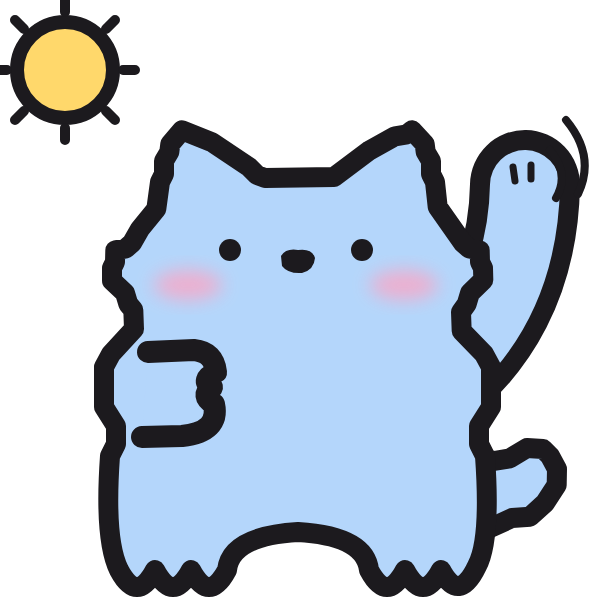
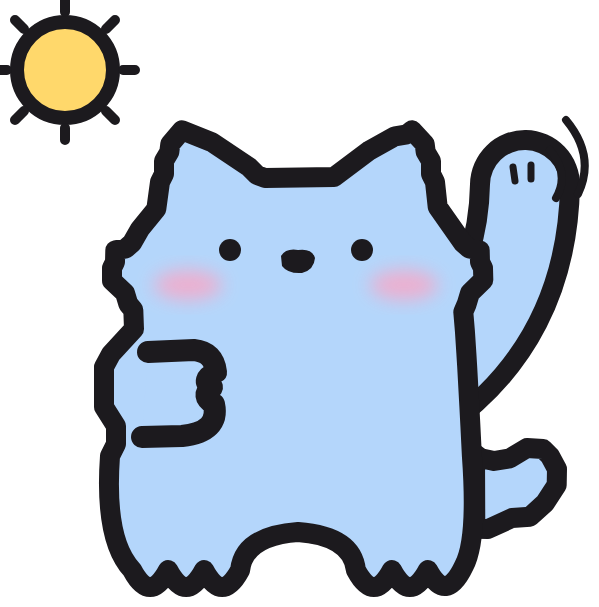
Felemelt karnál sima a test oldala
Az integetős, puszis és partis cicánál a felemelt kar oldalán nincs mancs-dudor
a test oldalán, csak ott, ahol a mancs befelé hajlik.

Claude-Session: https://claude.ai/code/session_0147rMSUhfh921N6BdCdXTQF

Changed region(s): [[0.5409, 0.5041, 0.8414, 1.0], [0.1503, 0.8303, 0.4808, 1.0]]

diff --git a/sw.js b/sw.js
@@ -1,6 +1,6 @@
 // Offline mód: a Kék Cica internet nélkül is működik.
 // Ha új verziót töltesz fel, emeld meg a VERZIO számot.
-const VERZIO = "kekcica-v8";
+const VERZIO = "kekcica-v9";
 const FAJLOK = [
     "./", "index.html", "style.css", "app.js", "beallitasok.js", "manifest.json",
     "apple-touch-icon.png", "ikon-192.png", "ikon-512.png",

diff --git a/forras/uj_cicak_rajzolo.py b/forras/uj_cicak_rajzolo.py
@@ -21,7 +21,21 @@ def vonal(d, fill="none", w=V):
 
 ALJ = 410  # ettől lefelé kézzel rajzolt lábak jönnek
 
-def test_ut(sy=1, dy=0):
+def sima_oldal(lanc, oldalak):
+    """Ahol a kar felfelé áll, ott a test oldalán nincs mancs-dudor: az oldalt kisimítjuk."""
+    Y0, X0, X1 = 220, 63, 52  # a dudor kezdete és az oldal x-e fent / lent (bal oldalon)
+    ki = []
+    for x, y in lanc:
+        for o in oldalak:
+            bal = o == "bal"
+            if (x < 228) == bal and Y0 <= y <= ALJ:
+                t = (y - Y0) / (ALJ - Y0)
+                xb = X0 + (X1 - X0) * (t ** 0.8)
+                x = round(xb if bal else 456 - xb, 1)
+        ki.append([x, y])
+    return ki
+
+def test_ut(sy=1, dy=0, sima=()):
     """Az eredeti körvonal (fej, fülek, oldalak) + kézzel rajzolt cicalábak alul."""
     P = TEST
     lent = [p[1] >= ALJ for p in P]
@@ -34,6 +48,8 @@ def test_ut(sy=1, dy=0):
         lanc.append(p)
     if lanc[0][0] > lanc[-1][0]:
         lanc = lanc[::-1]
+    if sima:
+        lanc = sima_oldal(lanc, sima)
     (xl, yl), (xr, yr) = lanc[0], lanc[-1]
     K = 228; yb = ALJ + 70; tw = 36
     d = "M" + " L".join(f"{x} {y}" for x, y in lanc)
@@ -63,11 +79,11 @@ def test_ut(sy=1, dy=0):
         d = " ".join(ki)
     return d
 
-def test(farok=True):
+def test(farok=True, sima=()):
     t = ''
     if farok:
         t += vonal(ut(FAROK), KEK)
-    t += vonal(test_ut(), KEK)
+    t += vonal(test_ut(sima=sima), KEK)
     return t
 
 def pir(nagy=False):
@@ -154,7 +170,7 @@ kepek["szomoru_konnyes"] = svg(test() + arc("konnyes", nagy_pir=True) + mancs(12
 
 nap = (f'<circle cx="-5" cy="-20" r="48" fill="#ffd86b" stroke="{FEK}" stroke-width="14"/>'
        + vonal("M-5 -90 L-5 -78 M-5 38 L-5 50 M-75 -20 L-63 -20 M53 -20 L65 -20 M-55 -70 L-46 -61 M36 21 L45 30 M45 -70 L36 -61 M-55 30 L-46 21", w=10))
-kepek["reggel_integet"] = svg(nap + kar_fel((350, 300), (455, 95), 1) + test() + arc("pont") + mancs_bal() +
+kepek["reggel_integet"] = svg(nap + kar_fel((350, 300), (455, 95), 1) + test(sima=("jobb",)) + arc("pont") + mancs_bal() +
                               vonal("M480 60 Q500 84 486 108 M496 30 Q526 66 508 104", w=8))
 
 konf = "".join(f'<rect x="{x}" y="{y}" width="24" height="15" rx="4" fill="{c}" transform="rotate({r} {x} {y})"/>'
@@ -163,11 +179,11 @@ konf = "".join(f'<rect x="{x}" y="{y}" width="24" height="15" rx="4" fill="{c}" 
 sapka = (f'<path d="M180 72 L232 -70 L280 66 Z" fill="#ffd166" stroke="{FEK}" stroke-width="{V}" stroke-linejoin="round"/>'
          f'<path d="M198 22 L262 22 M212 -20 L250 -20" stroke="#ff7aa2" stroke-width="12" stroke-linecap="round"/>'
          f'<circle cx="232" cy="-74" r="20" fill="#ff7aa2" stroke="{FEK}" stroke-width="12"/>')
-kepek["unnep_parti"] = svg(konf + kar_fel((100, 300), (-15, 95), -1) + kar_fel((350, 300), (465, 95), 1) + test(farok=False) + arc("boldog") + sapka)
+kepek["unnep_parti"] = svg(konf + kar_fel((100, 300), (-15, 95), -1) + kar_fel((350, 300), (465, 95), 1) + test(farok=False, sima=("bal", "jobb")) + arc("boldog") + sapka)
 
 szivek = (f'<path d="M470 120 Q430 84 450 64 Q470 52 476 78 Q484 52 504 62 Q522 84 470 120 Z" fill="#ff5c8a" stroke="{FEK}" stroke-width="10" stroke-linejoin="round"/>'
           f'<path d="M430 30 Q410 12 420 2 Q430 -4 433 9 Q437 -4 447 1 Q456 12 430 30 Z" fill="#ff8fb0" stroke="{FEK}" stroke-width="8" stroke-linejoin="round"/>')
-kepek["boldog_puszi_kuld"] = svg(kar_fel((350, 300), (430, 135), 1) + test() + arc("pont") + mancs_bal() + szivek)
+kepek["boldog_puszi_kuld"] = svg(kar_fel((350, 300), (430, 135), 1) + test(sima=("jobb",)) + arc("pont") + mancs_bal() + szivek)
 
 # Párnán alvó: az eredeti test laposra nyomva ("cipó" póz)
 parna = (f'<path d="M-40 400 Q-46 320 40 316 L410 316 Q496 320 490 400 Q496 480 410 486 L40 486 Q-46 480 -40 400 Z" fill="{ROZSA}" stroke="{FEK}" stroke-width="{V}"/>'
